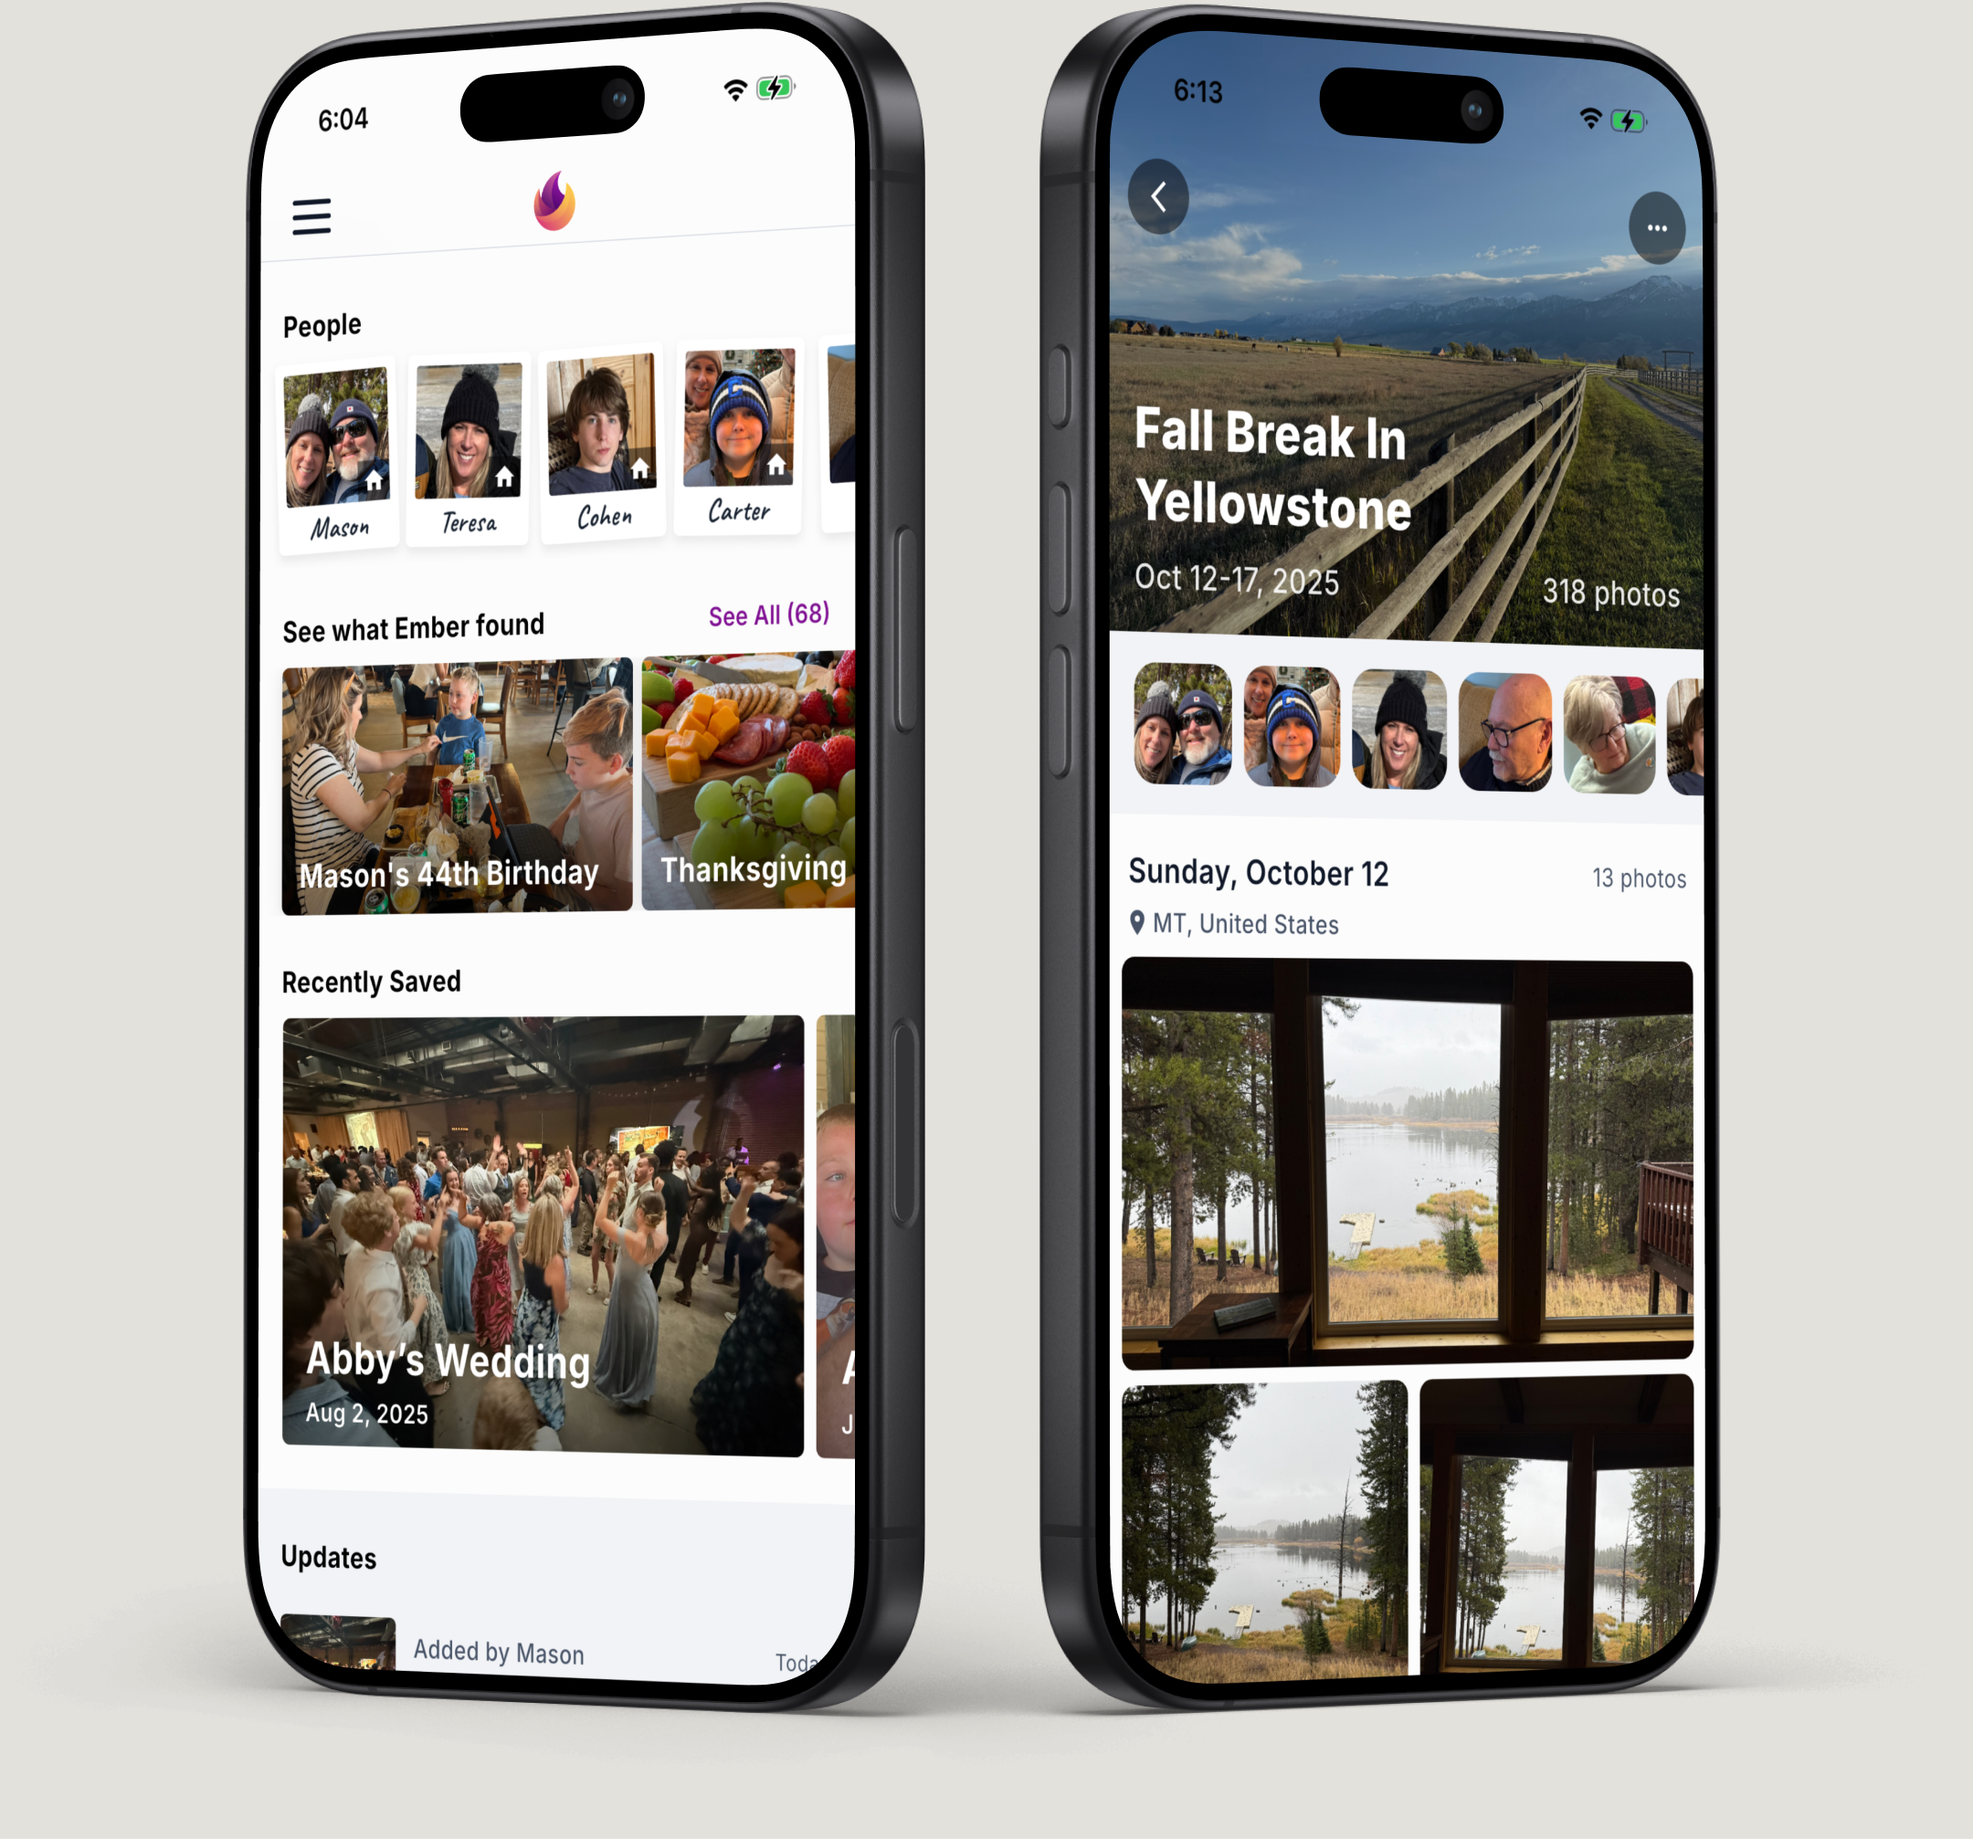
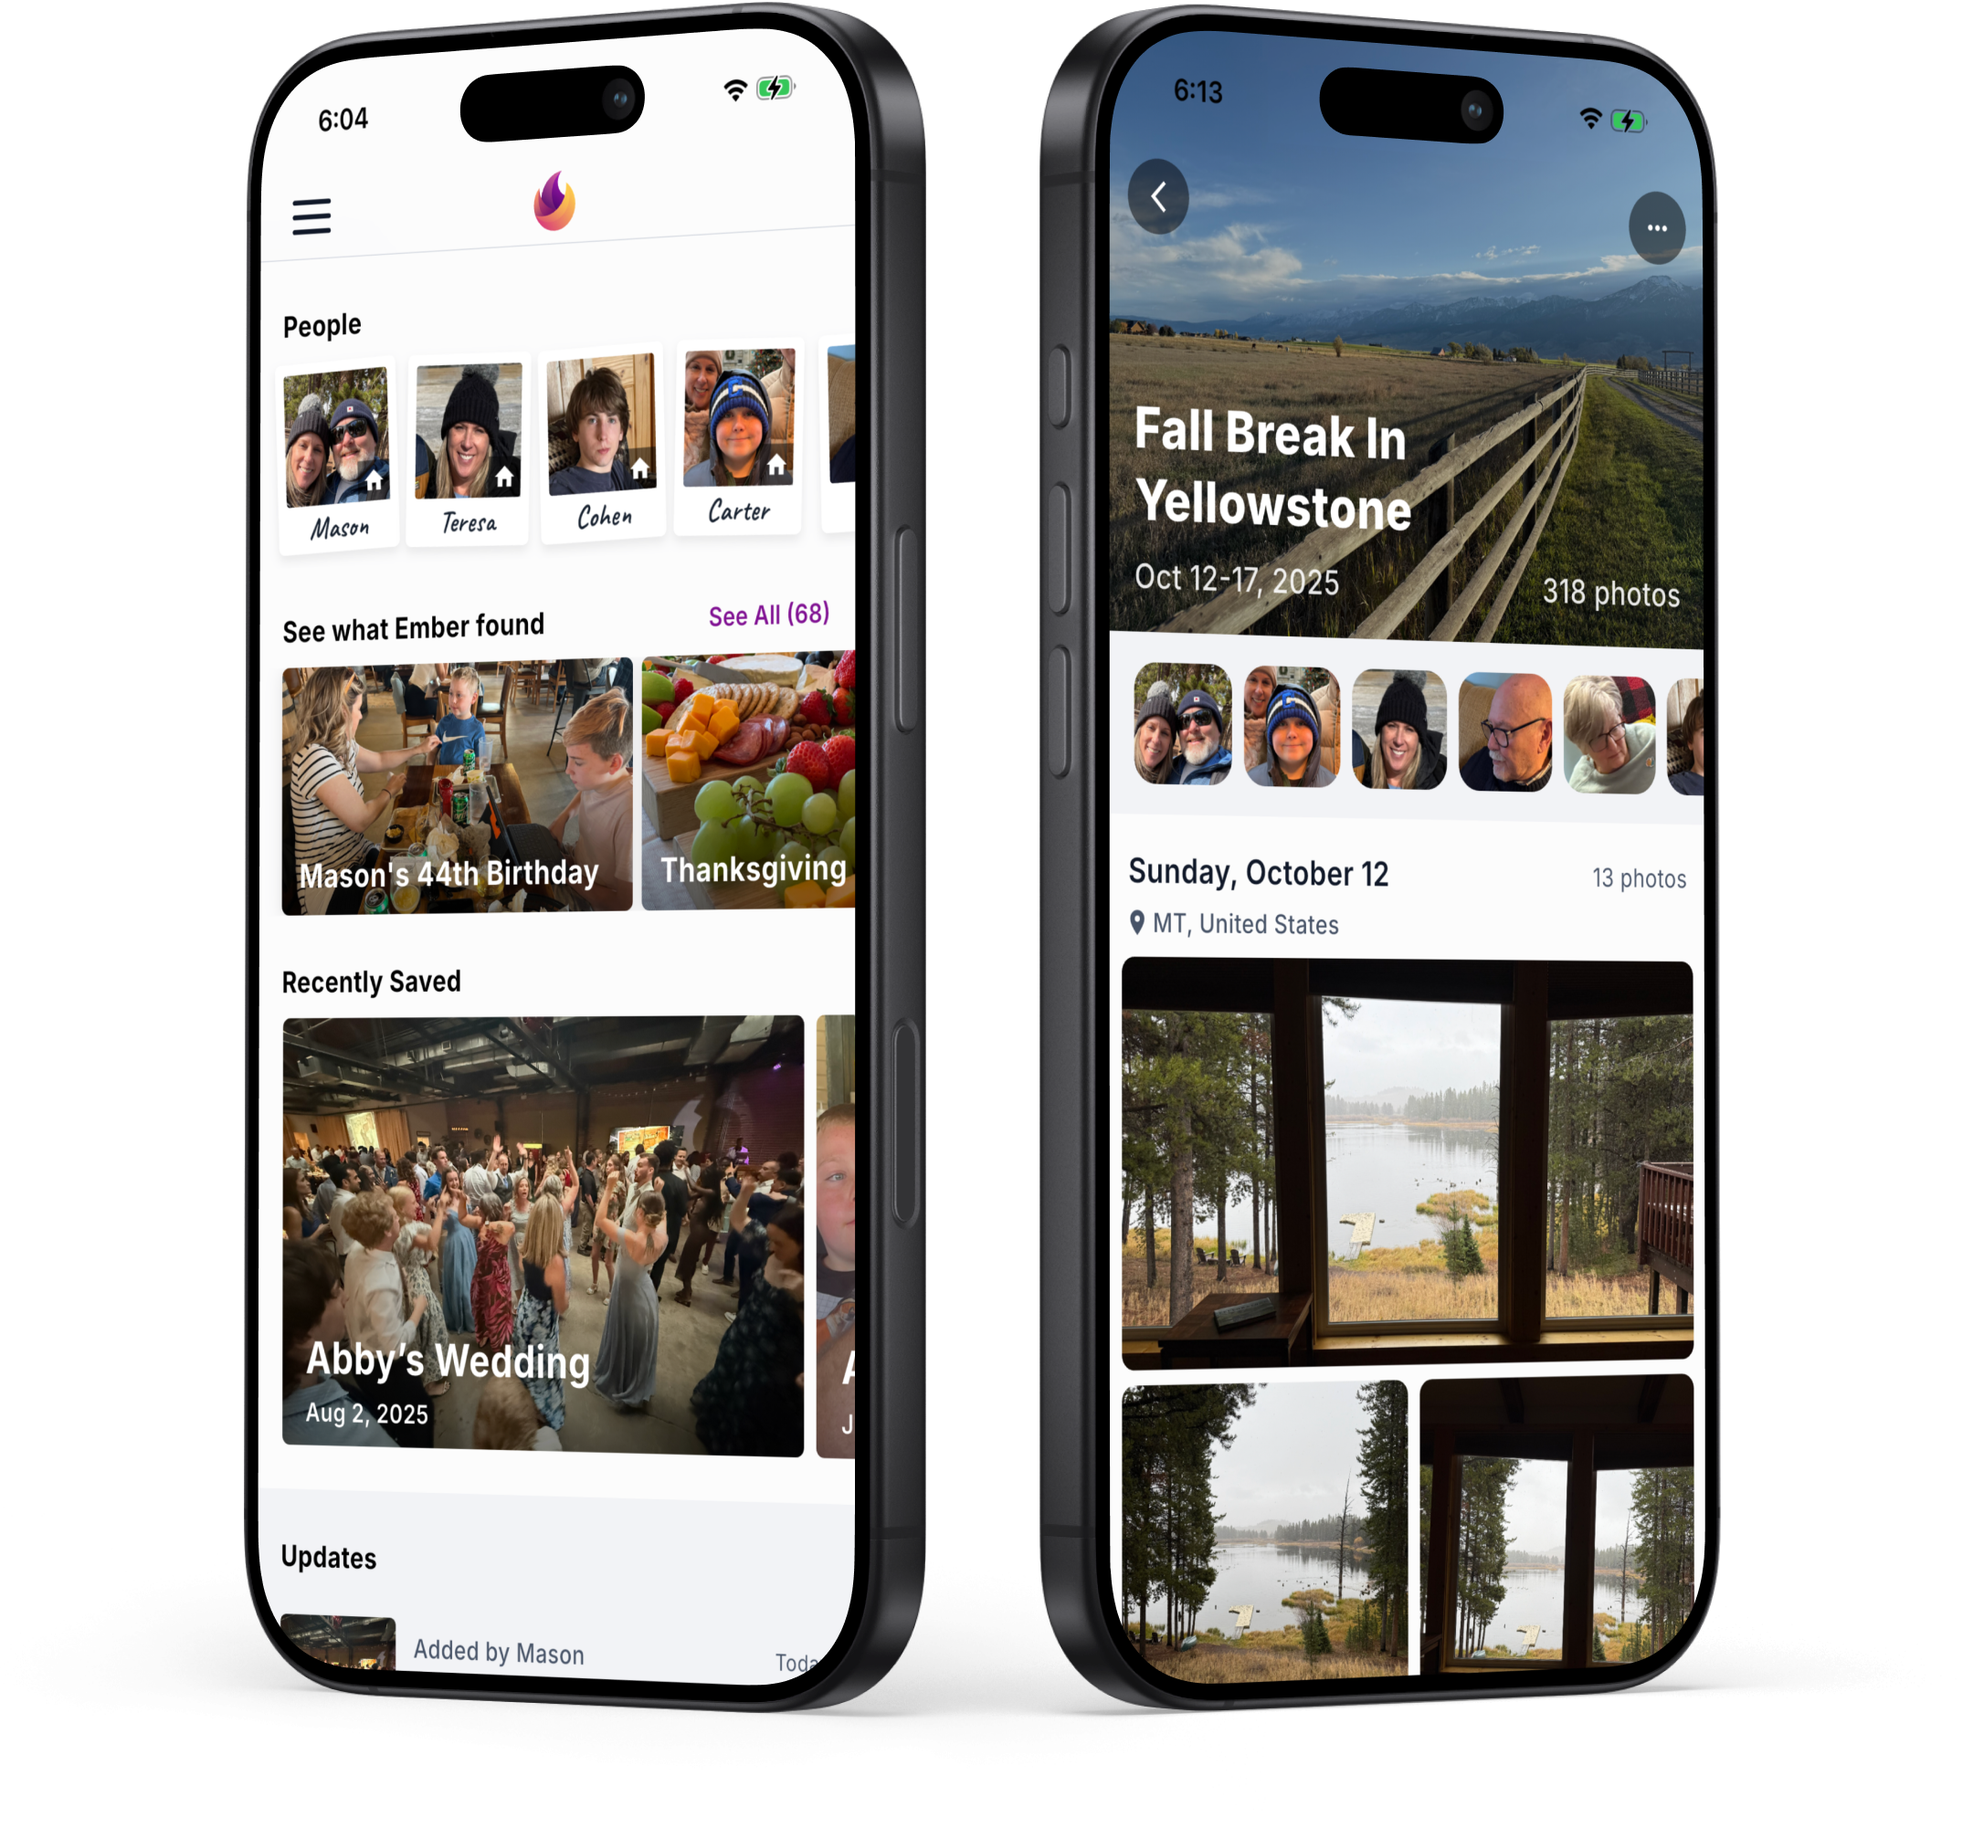
Homepage: Product Experience carousel + Solution gradient
- New ProductExperience section: button-controlled 3-slide carousel
  (Timeline View, Story Detail, Shared Stories). Liquid-glass active
  tab over #1A1325 section bg. Visual column aspect locked so slide
  switches don't collapse the section.
- Solution: linear gradient (#D9D2DD → #FFF) replaces flat warm
  neutral; re-exported iphone17-dual.png.
- Slide 1 + 2 images wired; slide 3 still placeholder.

diff --git a/src/components/product-experience/product-experience.css b/src/components/product-experience/product-experience.css
@@ -1,0 +1,203 @@
+/* Product Experience (§3) — button-controlled carousel.
+   Section background is deep aubergine; slides are 2-column (text left,
+   image right). Buttons above carousel act as tabs. */
+
+.px-section {
+  background-color: #1A1325;
+  color: #fff;
+  padding: 96px 5vw;
+  width: 100%;
+}
+
+/* ─── Tab buttons ───────────────────────────────────────────────────────── */
+
+.px-tabs {
+  display: flex;
+  justify-content: center;
+  gap: 12px;
+  margin: 0 auto 64px;
+  flex-wrap: wrap;
+}
+
+.px-tab {
+  appearance: none;
+  -webkit-appearance: none;
+  /* Reserve the same border footprint as the active state so the button
+     dimensions don't shift when the glass border appears. */
+  border: 1px solid transparent;
+  cursor: pointer;
+  padding: 16px 24px;
+  border-radius: 9999px;
+  background-color: transparent;
+  color: #D9D2DD;
+  font-family: var(--font-sans);
+  font-size: 1rem;
+  font-weight: 500;
+  line-height: 1;
+  letter-spacing: -0.005em;
+  transition:
+    background-color 0.25s ease,
+    border-color 0.25s ease,
+    color 0.25s ease,
+    box-shadow 0.25s ease;
+}
+
+.px-tab:hover:not(.is-active) {
+  color: #fff;
+}
+
+.px-tab:focus-visible {
+  outline: 2px solid #811193;
+  outline-offset: 3px;
+}
+
+/* Liquid-glass active state: frosted translucent fill + soft inner highlight
+   for the specular edge, plus a faint outer halo for depth. Sits above the
+   #1A1325 section bg so the backdrop blur picks up subtle tonal variation. */
+.px-tab.is-active {
+  color: #fff;
+  background-color: rgba(255, 255, 255, 0.14);
+  border-color: rgba(255, 255, 255, 0.22);
+  backdrop-filter: blur(18px) saturate(160%);
+  -webkit-backdrop-filter: blur(18px) saturate(160%);
+  box-shadow:
+    inset 0 1px 0 rgba(255, 255, 255, 0.28),
+    inset 0 -1px 0 rgba(0, 0, 0, 0.12),
+    0 8px 24px rgba(0, 0, 0, 0.25);
+}
+
+/* ─── Slide ─────────────────────────────────────────────────────────────── */
+
+.px-slide-wrap {
+  max-width: 1280px;
+  margin: 0 auto;
+}
+
+.px-slide {
+  display: grid;
+  grid-template-columns: minmax(0, 480px) minmax(0, 760px);
+  gap: 40px;
+  align-items: center;
+  justify-content: center;
+  animation: px-slide-in 0.5s cubic-bezier(0.22, 1, 0.36, 1) both;
+}
+
+@keyframes px-slide-in {
+  from {
+    opacity: 0;
+    transform: translateY(12px);
+  }
+  to {
+    opacity: 1;
+    transform: translateY(0);
+  }
+}
+
+.px-slide-text {
+  max-width: 480px;
+  text-align: left;
+  display: flex;
+  flex-direction: column;
+  justify-content: center;
+}
+
+.px-slide-heading {
+  font-family: var(--font-serif);
+  font-size: clamp(2rem, 3.4vw, 2.75rem);
+  font-weight: 700;
+  line-height: 1.1;
+  letter-spacing: -0.02em;
+  color: #fff;
+  margin: 0 0 1.25rem;
+}
+
+.px-slide-body {
+  font-family: var(--font-sans);
+  font-size: clamp(1.0625rem, 1.4vw, 1.1875rem);
+  font-weight: 400;
+  line-height: 1.55;
+  color: #D9D2DD;
+  margin: 0;
+}
+
+.px-slide-visual {
+  max-width: 760px;
+  width: 100%;
+  /* Reserve space before image decode and keep all slides the same height
+     so switching tabs can't collapse the section (which previously caused
+     the page to jump and reveal the Solution section above). Matches the
+     natural aspect of timeline-grid.png (1352x996). */
+  aspect-ratio: 1352 / 996;
+  display: flex;
+  align-items: center;
+  justify-content: center;
+}
+
+.px-slide-image {
+  width: 100%;
+  height: 100%;
+  object-fit: contain;
+  display: block;
+  border-radius: 12px;
+}
+
+.px-slide-placeholder {
+  width: 100%;
+  height: 100%;
+  border-radius: 12px;
+  background-color: rgba(255, 255, 255, 0.04);
+  border: 1px dashed rgba(255, 255, 255, 0.18);
+  display: flex;
+  align-items: center;
+  justify-content: center;
+  color: rgba(217, 210, 221, 0.7);
+  font-family: var(--font-sans);
+  font-size: 0.95rem;
+  letter-spacing: 0.02em;
+  text-transform: uppercase;
+}
+
+/* ─── Reduced motion ────────────────────────────────────────────────────── */
+
+@media (prefers-reduced-motion: reduce) {
+  .px-slide {
+    animation: none;
+  }
+  .px-tab {
+    transition: none;
+  }
+}
+
+/* ─── Mobile ────────────────────────────────────────────────────────────── */
+
+@media (max-width: 900px) {
+  .px-section {
+    padding: 72px 24px;
+  }
+
+  .px-tabs {
+    gap: 8px;
+    margin-bottom: 40px;
+  }
+
+  .px-tab {
+    padding: 12px 18px;
+    font-size: 0.9375rem;
+  }
+
+  .px-slide {
+    grid-template-columns: minmax(0, 1fr);
+    gap: 32px;
+  }
+
+  .px-slide-text {
+    max-width: 100%;
+    order: 2;
+    text-align: center;
+    align-items: center;
+  }
+
+  .px-slide-visual {
+    order: 1;
+  }
+}

diff --git a/src/components/product-experience/ProductExperience.jsx b/src/components/product-experience/ProductExperience.jsx
@@ -1,0 +1,97 @@
+import { useState } from 'react'
+import './product-experience.css'
+
+// Product Experience (§3) — button-controlled carousel.
+// One slide visible at a time; buttons above the carousel switch between
+// Timeline View, Story Detail, and Shared Stories. Slide switch is a
+// keyed remount so the enter animation plays each time.
+//
+// Spec: emberstories-site-kb/planning/site_content/Home/3_Product_Experience.md
+
+const slides = [
+  {
+    id: 'timeline',
+    label: 'Timeline View',
+    heading: 'All of your stories in one place',
+    body: 'Your memories are easy to find and available in chronological order — just like you remember them.',
+    image: '/assets/images/ux/timeline-grid.png',
+    imageAlt: 'A grid of Ember stories arranged by year',
+  },
+  {
+    id: 'detail',
+    label: 'Story Detail',
+    heading: 'Every memory, fully told',
+    body: 'Each story unfolds as a narrative — photos in sequence, places named, people remembered. The moments you lived, presented the way they deserve.',
+    image: '/assets/images/ux/story-detail.png',
+    imageAlt: 'A single Ember story opened in detail view',
+  },
+  {
+    id: 'contributors',
+    label: 'Shared Stories',
+    heading: 'Better together',
+    body: 'When loved ones were there with you, their photos join yours — one shared memory built from every angle.',
+    image: null,
+    imageAlt: 'Two phones contributing photos to a shared story',
+  },
+]
+
+export default function ProductExperience() {
+  const [activeIdx, setActiveIdx] = useState(0)
+  const active = slides[activeIdx]
+
+  return (
+    <section className="px-section" aria-label="Product experience">
+      <div
+        className="px-tabs"
+        role="tablist"
+        aria-label="Product experience slides"
+      >
+        {slides.map((s, i) => {
+          const isActive = i === activeIdx
+          return (
+            <button
+              key={s.id}
+              type="button"
+              role="tab"
+              aria-selected={isActive}
+              aria-controls={`px-panel-${s.id}`}
+              id={`px-tab-${s.id}`}
+              className={`px-tab${isActive ? ' is-active' : ''}`}
+              onClick={() => setActiveIdx(i)}
+            >
+              {s.label}
+            </button>
+          )
+        })}
+      </div>
+
+      <div
+        className="px-slide-wrap"
+        role="tabpanel"
+        id={`px-panel-${active.id}`}
+        aria-labelledby={`px-tab-${active.id}`}
+      >
+        <div className="px-slide" key={active.id}>
+          <div className="px-slide-text">
+            <h2 className="px-slide-heading">{active.heading}</h2>
+            <p className="px-slide-body">{active.body}</p>
+          </div>
+          <div className="px-slide-visual" aria-hidden={!active.image}>
+            {active.image ? (
+              <img
+                src={active.image}
+                alt={active.imageAlt}
+                className="px-slide-image"
+                decoding="async"
+              />
+            ) : (
+              <div className="px-slide-placeholder">
+                <span>Placeholder — {active.label}</span>
+              </div>
+            )}
+          </div>
+        </div>
+      </div>
+    </section>
+  )
+}

diff --git a/src/pages/HomePage.jsx b/src/pages/HomePage.jsx
@@ -3,6 +3,7 @@ import Lenis from 'lenis'
 import Hero from '@/components/hero/Hero'
 import Problem from '@/components/problem/Problem'
 import Solution from '@/components/solution/Solution'
+import ProductExperience from '@/components/product-experience/ProductExperience'
 import SiteFooter from '@/components/site/SiteFooter'
 import SiteHeader from '@/components/site/SiteHeader'
 
@@ -36,6 +37,7 @@ export default function HomePage() {
         <Hero />
         <Problem />
         <Solution />
+        <ProductExperience />
       </main>
       <SiteFooter />
     </>

diff --git a/src/components/solution/Solution.jsx b/src/components/solution/Solution.jsx
@@ -44,7 +44,7 @@ export default function Solution() {
       >
         <div className="solution-text">
           <h2 id="solution-headline" className="solution-headline">
-            Ember rediscovers and preserves your life stories
+            Ember recreates and preserves your life stories
           </h2>
           <p className="solution-body">
             And because the best moments are shared, Ember finds photos from

diff --git a/src/components/solution/solution.css b/src/components/solution/solution.css
@@ -3,10 +3,9 @@
    shifts from centered editorial-serif to a left-aligned product pitch. */
 
 .solution-section {
-  --solution-bg: #E3E1DC;
   --solution-serif: var(--font-serif);
   width: 100%;
-  background-color: var(--solution-bg);
+  background: linear-gradient(180deg, #D9D2DD 0%, #FFF 100%);
   padding: 12vh 6vw;
   overflow: hidden;
 }
